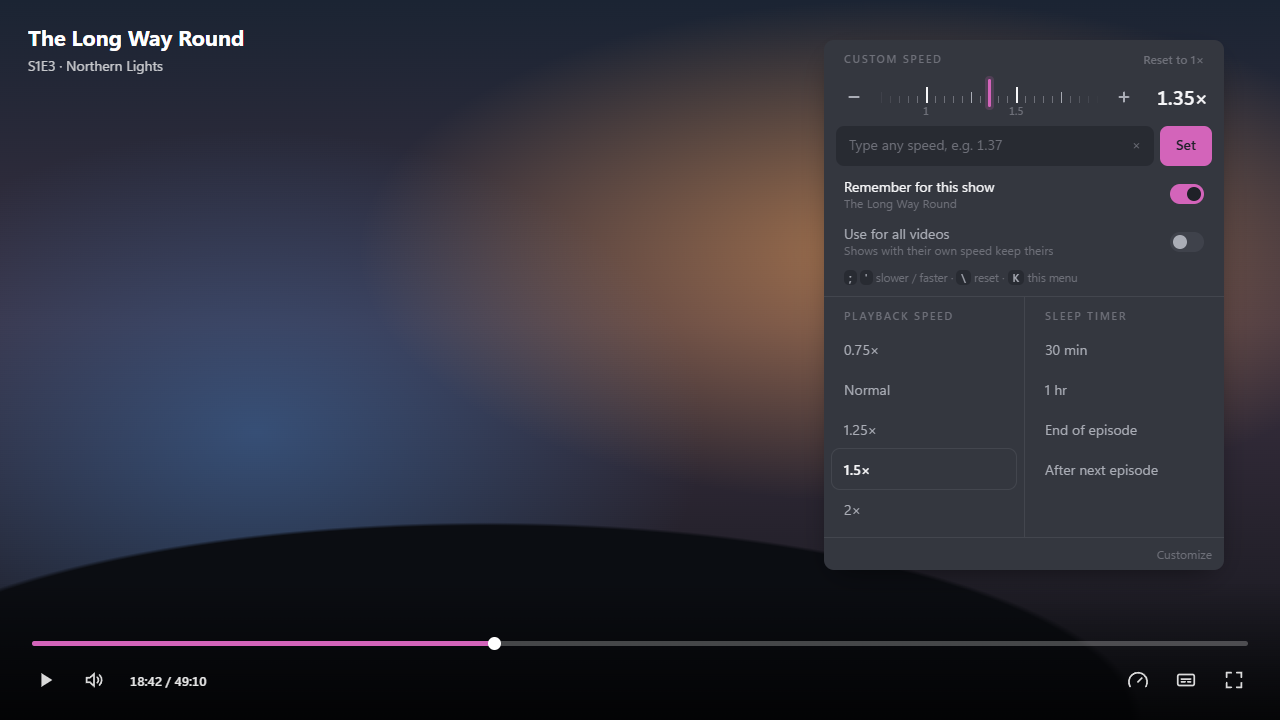
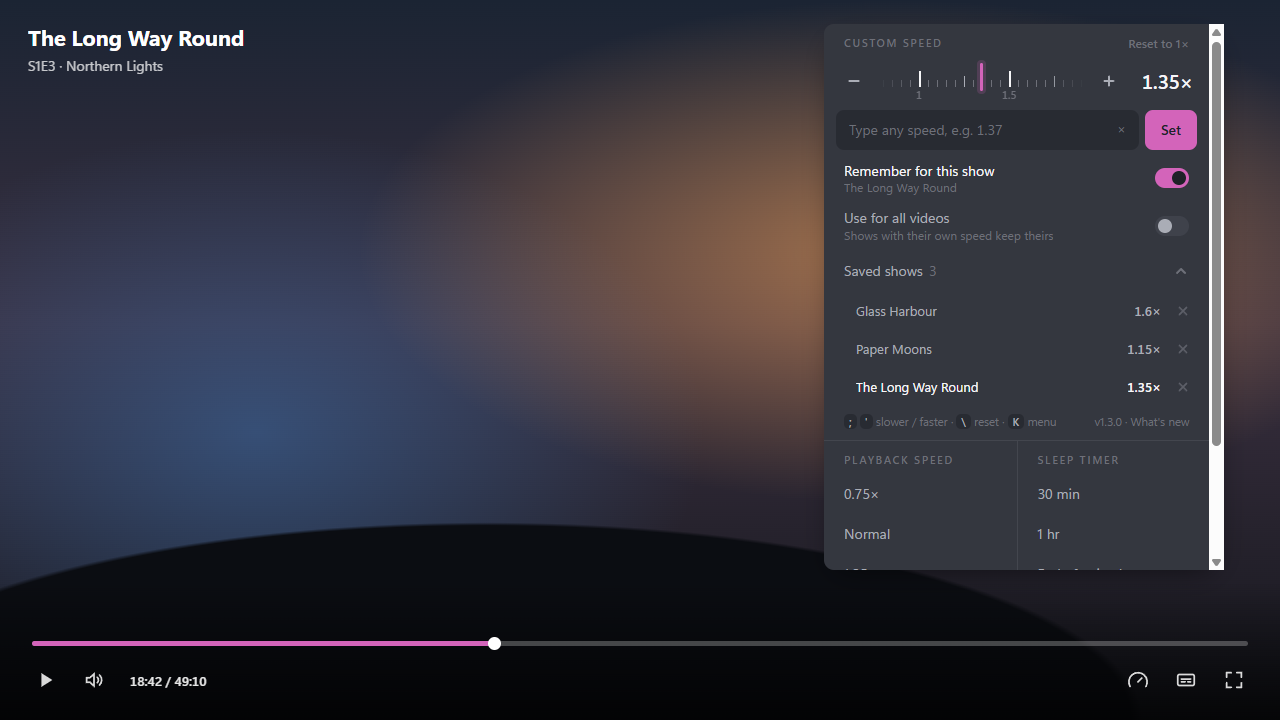
v1.3.0: saved shows list, update notice, What's new and changelog

diff --git a/speed-dial.js b/speed-dial.js
@@ -1,5 +1,22 @@
-/* >>> speed-dial v1.2.0 >>> https://github.com/zerobun0/harbor-speed-dial */
+/* >>> speed-dial v1.3.0 >>> https://github.com/zerobun0/harbor-speed-dial */
 (() => {
+  const VERSION = "1.3.0";
+  // newest first; shown in the update notice and under "What's new"
+  const CHANGELOG = [
+    { v: "1.3.0", items: [
+      "Saved shows: see every show's speed and remove any of them",
+      "This update notice, plus the version and What's new in the menu",
+    ] },
+    { v: "1.2.0", items: [
+      "Lives inside Harbor's Speed & sleep menu, no extra buttons on screen",
+      "Remember a speed per show; it beats \"Use for all videos\"",
+      "Fixed: next episode sometimes didn't get its saved speed",
+    ] },
+    { v: "1.0.0", items: [
+      "First release: dial, any speed from 0.1x to 8x, keyboard steps, follows your theme",
+    ] },
+  ];
+
   // ---- settings you can change ---------------------------------------------------
   const DIAL_MIN = 0.25;        // dial range (typing allows 0.1 to 8)
   const DIAL_MAX = 4;
@@ -28,6 +45,22 @@
   const save = (o) => { try { localStorage.setItem(STORE, JSON.stringify(o)); } catch (_) {} };
   const prefs = Object.assign({ remember: false, speed: 1, shows: {} }, load());
   if (!prefs.shows || typeof prefs.shows !== "object") prefs.shows = {};
+
+  const newer = (a, b) => {   // is version a newer than b?
+    const pa = String(a).split(".").map(Number), pb = String(b).split(".").map(Number);
+    for (let i = 0; i < 3; i++) if ((pa[i] || 0) !== (pb[i] || 0)) return (pa[i] || 0) > (pb[i] || 0);
+    return false;
+  };
+  function changelogNodes(entries) {
+    const f = document.createDocumentFragment();
+    for (const e of entries) {
+      const h = document.createElement("h4"); h.textContent = "v" + e.v; f.appendChild(h);
+      const ul = document.createElement("ul");
+      for (const it of e.items) { const li = document.createElement("li"); li.textContent = it; ul.appendChild(li); }
+      f.appendChild(ul);
+    }
+    return f;
+  }
 
   // ---- player bridge ---------------------------------------------------------------
   const playerRoot = () => document.querySelector(PLAYER_SEL);
@@ -192,7 +225,37 @@
   .opt[aria-checked="true"] .sw { background: var(--accent); }
   .opt[aria-checked="true"] .sw::after { transform: translateX(14px); background: var(--on-accent); }
 
-  .keys { font-size: 11.5px; color: var(--subtle); padding: 6px 12px 2px; }
+  /* saved shows */
+  .chev { flex: none; width: 16px; height: 16px; color: var(--subtle); transition: transform .18s ease; }
+  .saved-opt[aria-expanded="true"] .chev { transform: rotate(180deg); }
+  .saved-opt .count { font-variant-numeric: tabular-nums; color: var(--subtle); margin-inline-start: 6px; }
+  .saved { display: flex; flex-direction: column; gap: 2px; padding: 0 0 4px; max-height: 176px; overflow-y: auto; }
+  .saved[hidden] { display: none; }
+  .srow { display: flex; align-items: center; gap: 8px; height: 36px; padding: 0 4px 0 24px; border-radius: 8px; color: var(--muted); }
+  .srow:hover { background: var(--hover); color: var(--ink); }
+  .srow.now { color: var(--ink); }
+  .srow .n { flex: 1; min-width: 0; font-size: 13px; white-space: nowrap; overflow: hidden; text-overflow: ellipsis; }
+  .srow .v { font-size: 13px; font-weight: 600; font-variant-numeric: tabular-nums; }
+  .srow .x {
+    flex: none; width: 28px; height: 28px; border-radius: 6px; display: grid; place-items: center;
+    color: var(--subtle); opacity: .7; transition: background-color .12s, color .12s, opacity .12s;
+  }
+  .srow:hover .x { opacity: 1; }
+  .srow .x:hover { background: var(--hover); color: var(--danger); }
+  .srow .x svg { width: 14px; height: 14px; }
+
+  /* footer: keys + version */
+  .foot { display: flex; align-items: center; justify-content: space-between; gap: 8px; padding: 6px 12px 2px; }
+  .ver { flex: none; font-size: 11.5px; color: var(--subtle); padding: 2px 6px; margin: -2px -6px; border-radius: 6px; transition: background-color .12s, color .12s; }
+  .ver:hover { background: var(--hover); color: var(--ink); }
+  .news { margin: 6px 4px 2px; padding: 10px 12px; border-radius: 8px; background: var(--hover); font-size: 12.5px; color: var(--muted); }
+  .news[hidden] { display: none; }
+  .news h4 { margin: 0 0 4px; font-size: 12.5px; font-weight: 600; color: var(--ink); }
+  .news h4:not(:first-child) { margin-top: 10px; }
+  .news ul { margin: 0; padding-inline-start: 16px; }
+  .news li { margin: 2px 0; }
+
+  .keys { font-size: 11.5px; color: var(--subtle); }
   kbd { font: inherit; font-size: 11px; font-weight: 600; color: var(--muted); padding: 0 5px; border-radius: 5px; background: var(--hover); }
 
   @media (prefers-reduced-motion: reduce) { *, *::after { transition: none !important; } }
@@ -226,14 +289,26 @@
     <button class="opt all-opt" type="button" role="switch" aria-checked="false">
       <span class="txt"><span>Use for all videos</span><span class="s">Shows with their own speed keep theirs</span></span><span class="sw"></span>
     </button>
+    <button class="opt saved-opt" type="button" aria-expanded="false" hidden>
+      <span class="txt"><span>Saved shows</span><span class="count"></span></span>
+      <svg class="chev" viewBox="0 0 16 16" fill="none" stroke="currentColor" stroke-width="2" stroke-linecap="round" stroke-linejoin="round"><path d="M4 6l4 4 4-4"/></svg>
+    </button>
+    <div class="saved" hidden></div>
   </div>
-  <div class="keys"><kbd>;</kbd> <kbd>'</kbd> slower / faster &middot; <kbd>&#92;</kbd> reset &middot; <kbd>K</kbd> this menu</div>
+  <div class="news" hidden></div>
+  <div class="foot">
+    <span class="keys"><kbd>;</kbd> <kbd>'</kbd> slower / faster &middot; <kbd>&#92;</kbd> reset &middot; <kbd>K</kbd> menu</span>
+    <button class="ver" type="button" aria-expanded="false">v${VERSION} &middot; What's new</button>
+  </div>
 </div>`;
 
   const $ = (s) => root.querySelector(s);
   const sd = $(".sd"), dial = $(".dial"), tape = $(".tape"), valEl = $(".val"), input = $(".in");
   const field = $(".field"), hint = $(".hint"), resetBtn = $(".reset");
   const showOpt = $(".show-opt"), showName = $(".show-name"), allOpt = $(".all-opt");
+  const savedOpt = $(".saved-opt"), savedCount = $(".saved-opt .count"), savedList = $(".saved");
+  const verBtn = $(".ver"), news = $(".news");
+  news.appendChild(changelogNodes(CHANGELOG));
 
   const steps = Math.round((DIAL_MAX - DIAL_MIN) / FINE_STEP);
   const frag = document.createDocumentFragment();
@@ -280,6 +355,32 @@
     showOpt.title = currentShow || "";
     showOpt.setAttribute("aria-checked", String(hasShowSpeed()));
     allOpt.setAttribute("aria-checked", String(!!prefs.remember));
+    renderSaved();
+  }
+
+  const X_ICON = '<svg viewBox="0 0 16 16" fill="none" stroke="currentColor" stroke-width="2" stroke-linecap="round"><path d="M4 4l8 8M12 4l-8 8"/></svg>';
+  let savedKey = "";
+  function renderSaved() {
+    const names = Object.keys(prefs.shows).sort((a, b) => a.localeCompare(b));
+    savedOpt.hidden = names.length === 0;
+    savedCount.textContent = String(names.length);
+    if (!names.length) { savedList.hidden = true; savedOpt.setAttribute("aria-expanded", "false"); }
+    const key = JSON.stringify([names.map((n) => [n, prefs.shows[n]]), currentShow]);
+    if (key === savedKey) return;           // nothing changed, keep the DOM (and hover) as is
+    savedKey = key;
+    savedList.textContent = "";
+    for (const n of names) {
+      const row = document.createElement("div");
+      row.className = "srow" + (n === currentShow ? " now" : "");
+      const nm = document.createElement("span"); nm.className = "n"; nm.textContent = n; nm.title = n;
+      const v = document.createElement("span"); v.className = "v"; v.textContent = label(prefs.shows[n]);
+      const x = document.createElement("button");
+      x.type = "button"; x.className = "x"; x.innerHTML = X_ICON;
+      x.setAttribute("aria-label", "Forget the speed for " + n); x.title = "Forget";
+      x.addEventListener("click", () => { delete prefs.shows[n]; save(prefs); render(false); });
+      row.append(nm, v, x);
+      savedList.appendChild(row);
+    }
   }
 
   let writeTimer = 0, pendingWrite = null;
@@ -344,6 +445,16 @@
     if (hasShowSpeed()) delete prefs.shows[currentShow]; else prefs.shows[currentShow] = speed;
     save(prefs); render(false);
   });
+  savedOpt.addEventListener("click", () => {
+    const open = savedList.hidden;
+    savedList.hidden = !open;
+    savedOpt.setAttribute("aria-expanded", String(open));
+  });
+  verBtn.addEventListener("click", () => {
+    const open = news.hidden;
+    news.hidden = !open;
+    verBtn.setAttribute("aria-expanded", String(open));
+  });
 
   let startX = 0, startSpeed = 1;
   dial.addEventListener("pointerdown", (e) => {
@@ -371,9 +482,11 @@
   });
 
   // ---- placement: inside Harbor's menu, or our own menu if that button is hidden ----
+  var noteCloser = null;  // set by the update notice; var so it exists before that code runs
   function placeInMenu() {
     const menu = nativeMenu();
     if (menu) {
+      if (noteCloser) { noteCloser(); noteCloser = null; }   // opening the menu dismisses the notice
       if (host.parentNode !== menu || menu.firstChild !== host) menu.insertBefore(host, menu.firstChild);
       sd.classList.remove("floating");
       floatingOpen = false;
@@ -468,17 +581,77 @@
   render(false);
   sync();
 
+  // ---- "updated" notice: once per new version, anywhere in Harbor -------------------
+  const SEEN = "speedDial.seen";
+  const noteHost = document.createElement("div");
+  let noteTimer = 0;
+  (function updateNotice() {
+    let seen = null;
+    try { seen = localStorage.getItem(SEEN); localStorage.setItem(SEEN, VERSION); } catch (_) { return; }
+    if (seen === VERSION) return;
+    // older versions didn't record what was seen: if Speed Dial already ran here, this is an update
+    const hadOlder = !seen && (localStorage.getItem(STORE) != null || localStorage.getItem("speedDial.code") != null);
+    if (seen && !newer(VERSION, seen)) return;
+    const entries = seen ? CHANGELOG.filter((e) => newer(e.v, seen)) : hadOlder ? CHANGELOG.slice(0, 1) : [];
+    const nr = noteHost.attachShadow({ mode: "open" });
+    nr.innerHTML = `<style>
+      :host { all: initial; }
+      .n {
+        position: fixed; left: 50%; top: 20px; z-index: 2147483001; width: 340px; max-width: calc(100vw - 32px);
+        padding: 14px 14px 12px 16px; border-radius: var(--radius-md, 10px);
+        background: var(--color-elevated, #34373f); color: var(--color-ink, #f6f6f8);
+        box-shadow: 0 10px 30px -12px rgba(0,0,0,.6), 0 0 0 1px var(--color-edge-soft, transparent);
+        font: 400 13px/1.4 var(--font-sans, system-ui, sans-serif); -webkit-font-smoothing: antialiased;
+        opacity: 0; transform: translate(-50%, -8px); transition: opacity .2s ease, transform .25s cubic-bezier(.2,.8,.2,1);
+      }
+      .n.show { opacity: 1; transform: translate(-50%, 0); }
+      .top { display: flex; align-items: flex-start; gap: 10px; }
+      .dot { flex: none; width: 8px; height: 8px; margin-top: 6px; border-radius: 50%; background: var(--color-accent, #d364ba);
+        box-shadow: 0 0 0 4px var(--color-accent-soft, transparent); }
+      .t { flex: 1; font-size: 14px; font-weight: 600; }
+      .s { color: var(--color-ink-subtle, #6e7079); font-size: 12px; font-weight: 400; margin-top: 1px; }
+      .x { all: unset; cursor: pointer; flex: none; width: 26px; height: 26px; margin: -4px -4px 0 0; border-radius: 6px;
+        display: grid; place-items: center; color: var(--color-ink-subtle, #6e7079); }
+      .x:hover { background: color-mix(in srgb, var(--color-canvas, #000) 55%, transparent); color: var(--color-ink, #fff); }
+      .x:focus-visible { outline: 2px solid var(--color-accent, #d364ba); }
+      .x svg { width: 14px; height: 14px; }
+      .body { margin: 8px 0 0 18px; color: var(--color-ink-muted, #aaadb6); }
+      h4 { margin: 8px 0 2px; font-size: 12px; font-weight: 600; color: var(--color-ink-subtle, #6e7079); }
+      h4:first-child { display: none; }
+      ul { margin: 0; padding-inline-start: 16px; } li { margin: 2px 0; }
+      @media (prefers-reduced-motion: reduce) { .n { transition: none; } }
+    </style>
+    <div class="n" role="status">
+      <div class="top"><span class="dot"></span>
+        <div class="t">Speed Dial ${entries.length ? "updated to" : "installed:"} v${VERSION}
+          <div class="s">${entries.length ? "What's new:" : "Open Speed &amp; sleep in the player, or press K"}</div></div>
+        <button class="x" type="button" aria-label="Close">${X_ICON}</button></div>
+      <div class="body"></div>
+    </div>`;
+    const card = nr.querySelector(".n");
+    if (entries.length) nr.querySelector(".body").appendChild(changelogNodes(entries));
+    else nr.querySelector(".body").remove();
+    const close = () => { noteCloser = null; card.classList.remove("show"); clearTimeout(noteTimer); setTimeout(() => noteHost.remove(), 300); };
+    noteCloser = close;
+    nr.querySelector(".x").addEventListener("click", close);
+    card.addEventListener("mouseenter", () => clearTimeout(noteTimer));
+    card.addEventListener("mouseleave", () => { noteTimer = setTimeout(close, 6000); });
+    document.body.appendChild(noteHost);
+    requestAnimationFrame(() => requestAnimationFrame(() => card.classList.add("show")));
+    noteTimer = setTimeout(close, 15000);
+  })();
+
   // ---- cleanup (Harbor calls this when Custom JS is edited or cleared) --------------
   function destroy() {
     alive = false;
     mo.disconnect();
-    clearTimeout(pollTimer); clearTimeout(toastTimer); clearTimeout(writeTimer);
+    clearTimeout(pollTimer); clearTimeout(toastTimer); clearTimeout(writeTimer); clearTimeout(noteTimer);
     window.removeEventListener("keydown", onKey, true);
     window.removeEventListener("pointerdown", onDocDown, true);
-    host.remove(); toastHost.remove();
+    host.remove(); toastHost.remove(); noteHost.remove();
     if (window[NS] && window[NS].destroy === destroy) delete window[NS];
   }
-  window[NS] = { destroy, version: "1.2.0", get speed() { return speed; }, set: (x) => setSpeed(+x, { glide: true }) };
+  window[NS] = { destroy, version: VERSION, get speed() { return speed; }, set: (x) => setSpeed(+x, { glide: true }) };
   const prevCleanup = window.__harborCustomCleanup;
   window.__harborCustomCleanup = () => {
     try { destroy(); } catch (_) {}

diff --git a/README.md b/README.md
@@ -12,9 +12,12 @@ No extra buttons, and it follows your Harbor theme.
 - **Built into Harbor's Speed & sleep menu**: nothing extra on screen, Harbor's presets and sleep timer stay as they are
 - **Remember for this show**: every episode of that show starts at your speed. Movies count on their own
 - **Use for all videos**: one speed for everything else
+- **Saved shows**: see every show's speed and remove any of them
 - **Follows your theme**: colours, font and corners come from whatever Harbor theme you use, and change live
 - **Stays in sync** with Harbor's own `[` `]` speed keys
-- **Updates itself** from this repo, with a cached copy so it still works offline
+- **Updates itself** from this repo, with a cached copy so it still works offline. A small card tells you when it updated and what's new
+
+![Saved shows list](docs/saved-shows.png) ![Update notice](docs/update-notice.png)
 
 | Your theme | Nord | Violet |
 | --- | --- | --- |
@@ -56,7 +59,9 @@ No extra buttons, and it follows your Harbor theme.
 
 3. Play something and open **Speed & sleep** (or press `K`). The Custom speed section is at the top. No restart needed.
 
-**Updates:** automatic. Harbor checks this repo when it starts and every 10 minutes.
+**Updates:** automatic. Harbor checks this repo when it starts and every 10 minutes. When a new version lands you get a
+"Speed Dial updated" card with the changes. Your version is always shown at the bottom of Custom speed (click it for
+**What's new**), and the full history is in [CHANGELOG.md](CHANGELOG.md).
 
 **Already have other Custom JS?** Paste this below it. Both keep working.
 

diff --git a/TODO.md b/TODO.md
@@ -6,7 +6,7 @@ Repo: https://github.com/zerobun0/harbor-speed-dial (public). Harbor upstream: g
 
 ## Open
 
-- ⬜ H15: User checks v1.2 in real Harbor (open Speed & sleep or press K; floating pill from v1.0 should be gone)
+- ⬜ H15: User checks v1.3 in real Harbor (should see 'Speed Dial updated to v1.3.0' card) (open Speed & sleep or press K; floating pill from v1.0 should be gone)
   - Done: section shows inside the menu, speed changes heard, per-show works on next episode
 - ⬜ H11: Ask user whether to delete speed-dial.ps1 (doesn't work) and docs/control-bar.png (no longer used)
 
@@ -24,6 +24,11 @@ Repo: https://github.com/zerobun0/harbor-speed-dial (public). Harbor upstream: g
 - ✅ H13: Nothing on screen until the menu opens (fixes pill over Skip Intro / during loading) (v1.2.0)
 - ✅ H14: "Custom speed" section injected at top of Harbor's Speed & sleep popover (div.fixed inside the button's div.relative); K clicks the native button; floating fallback if button hidden (v1.2.0). Replaces the v1.1 control-bar button, which never shipped.
 - ✅ H10: v1.2.0 pushed to main for auto-update
+
+- ✅ H16: Saved shows list (expand, remove per show) (v1.3.0)
+- ✅ H17: Update notice card once per new version (localStorage `speedDial.seen`; older installs detected via `speedDial.v1`/`speedDial.code`), top-centre, closes when menu opens; version + What's new in footer (v1.3.0)
+- ✅ H18: CHANGELOG.md; keep it and the CHANGELOG array at the top of speed-dial.js in sync on every release
+- ✅ H19: v1.3.0 pushed
 
 ## Gotchas
 

diff --git a/CHANGELOG.md b/CHANGELOG.md
@@ -1,0 +1,19 @@
+# Changelog
+
+Speed Dial updates itself. When a new version arrives, Harbor shows a small "Speed Dial updated" card with what changed.
+You can also see your version and this list any time: open **Speed & sleep** and click **What's new** at the bottom of Custom speed.
+
+## v1.3.0 (2026-11-21)
+
+- Saved shows: see every show's speed and remove any of them
+- Update notice when a new version arrives, plus the version and What's new in the menu
+
+## v1.2.0 (2026-11-21)
+
+- Lives inside Harbor's Speed & sleep menu, no extra buttons on screen
+- Remember a speed per show; it beats "Use for all videos"
+- Fixed: the next episode sometimes didn't get its saved speed
+
+## v1.0.0 (2026-11-21)
+
+- First release: dial, any speed from 0.1× to 8×, keyboard steps, follows your theme
